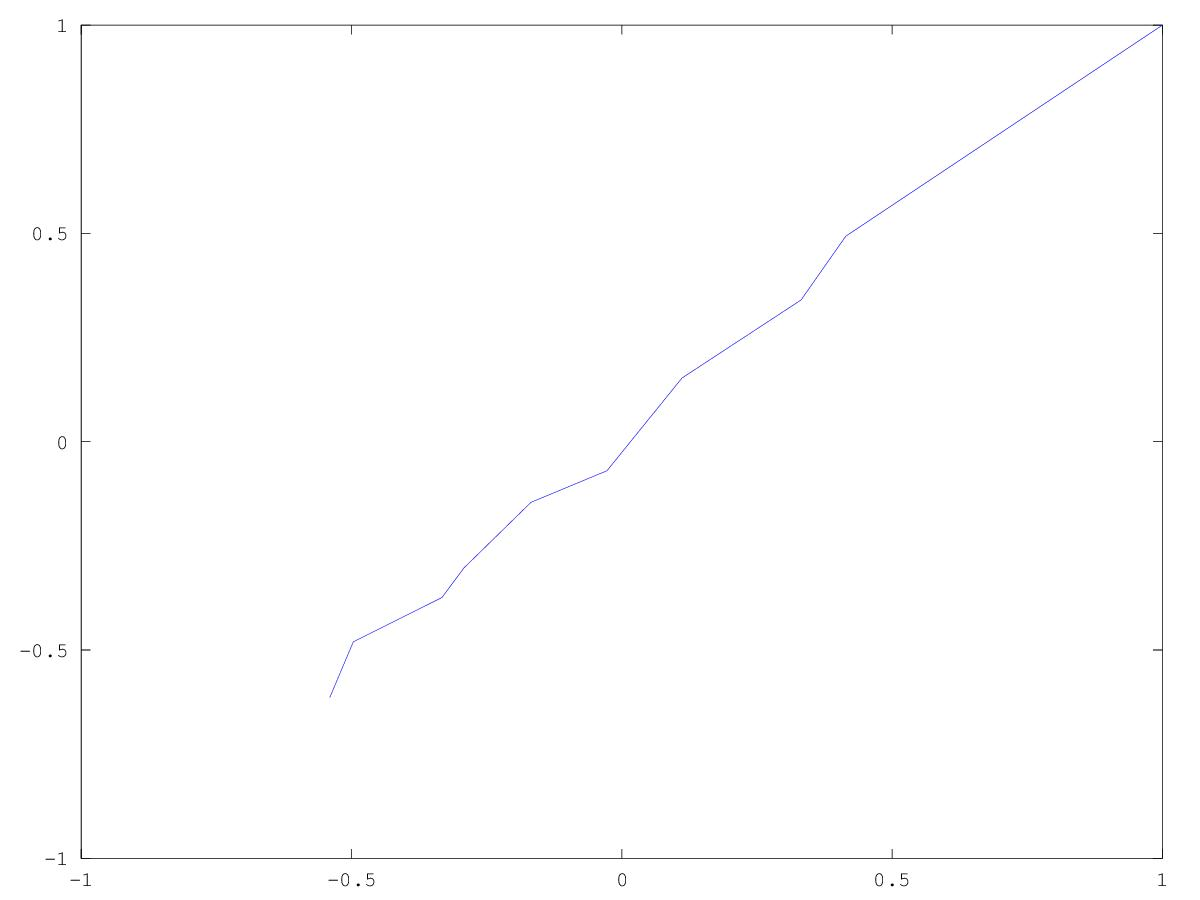
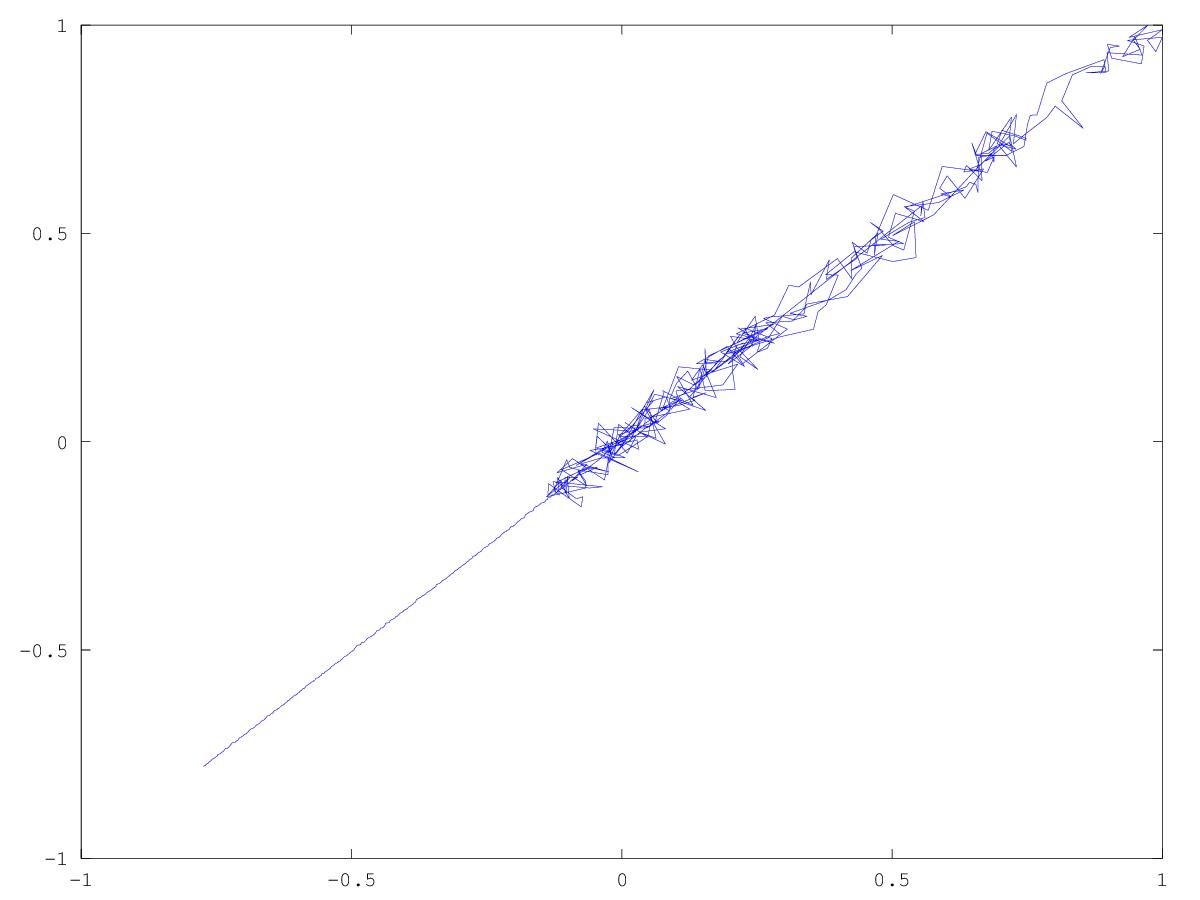
15.01.13 backup

diff --git a/SNN/KK_snn.m b/SNN/KK_snn.m
@@ -5,8 +5,9 @@ clc;
 clear;
 
 % Import danych z pliku tekstowego
-%mDane=load('A_test_14.txt');
-mDane = load('test_dane.txt');
+mDane=load('A_test_14.txt');
+%mDane = load('test_dane.txt');
+
 % Opis danych:
 % kolumna 1 - x
 % kolumna 2 - y=f(x)
@@ -14,23 +15,24 @@ plot(mDane(:,1),mDane(:,2));
 print -djpg "dane_oryginal.jpg";
 
 %Normalizacja i centrowanie
-mDane
 % to nizej to to samo co studentize :) 
 %mPrestd = prestd(mDane(:,2))
-mTmp = studentize(mDane)
-mNormX = norm(mTmp(:,1), inf)
-mNormY = norm(mTmp(:,2), inf)
+mTmp = studentize(mDane);
+mNormX = norm(mTmp(:,1), inf);
+mNormY = norm(mTmp(:,2), inf);
 % odchylanie standardowe
 %mStd = std(mDane)
 mDane(:,1) = mTmp(:,1) ./ mNormX;
 mDane(:,2) = mTmp(:,2) ./ mNormY;
-mDane
 
 %prestd(dane)
 %mDane(:,1) = mDane(:,1) - mean(mDane(:,1))
 %mDane
+
 % podzial zbioru na zbior uczacy i testowy
-[mTrain, mTest] = subset(mDane',1,1,1/2)
+[mTrain, mTest] = subset(mDane',1,1,1/2);
+mTrain = mTrain';
+mTest = mTest';
 %poststd(prestd(dane))
 %trastd(dane)
 %mapstd(dane)
@@ -41,3 +43,68 @@ mDane
 plot(mDane(:,1),mDane(:,2));
 print -djpg "dane_norm.jpg";
 %print -deps foo.eps
+
+%-----------------------------------------
+% pkt 2 - dobór liczby neuronów metodą porównania błędu śrenio-kwadratowego
+
+mHiddenNeuronMax = 30;
+mTestNumber = 30;
+
+mErrorTrain = zeros(mHiddenNeuronMax, mTestNumber);
+mErrorTest = zeros(mHiddenNeuronMax, mTestNumber);
+mErrorTrainAvr = zeros(mHiddenNeuronMax, 1);
+mErrorTestAvr = zeros(mHiddenNeuronMax, 1);
+mErrorTrainMin = zeros(mHiddenNeuronMax, 1);
+mErrorTestMin = zeros(mHiddenNeuronMax, 1);
+
+for neuronNum = 1:1:mHiddenNeuronMax
+    for testNum = 1:1:mTestNumber
+       
+        #randomizacja danych
+        permutation = randperm(length(mTrain));
+        mTrainRand = mTrain;
+        for i = 1:1:length(mTrain)
+            mTrainRand(i,:) = mTrain(permutation(i),:);
+        end
+        % czyszenie pamięci
+        mTrain = mTrainRand;	
+        clear mTrainRand;
+        
+        
+        net = newff([min(mTrain(:,1)) max(mTrain(:,1))],[neuronNum 1],{"tansig" , "purelin"} , "trainlm", "learngdm", "mse");
+        
+        rand('state',sum(100*clock)); %inicjalizacja generatora liczb pseudolosowych 
+        
+        %inicjalizacja wag sieci 
+        net.IW{1} = (rand(neuronNum, 1)-0.5)/(0.5/0.15); 
+        net.LW{2} = (rand(1, neuronNum) - 0.5) / (0.5 / 0.15); 
+        net.b{1} = (rand(neuronNum, 1) - 0.5) / (0.5 / 0.15); 
+        net.b{2} = (rand() - 0.5) / (0.5 / 0.15); 
+        net.trainParam.goal = 0.01; %warunek stopu - poziom błędu 
+        net.trainParam.epochs = 100; %maksymalna liczba epok 
+        net=train(net,mTrain(:,1)',mTrain(:,2)'); %uczenie sieci
+        
+        %symulacja sieci
+        y = sim(net,mTrain(:,1)');
+        mErrorTrain(neuronNum, testNum) = (sum((y-mTrain(:,2)').^2)./2)./length(mTrain(:,1));
+    
+        y = sim(net,mTest(:,1)');
+        mErrorTest(neuronNum, testNum) = (sum((y-mTest(:,2)').^2)./2)./length(mTest(:,1));
+
+    end
+    
+    mErrorTrainAvr(neuronNum)=mean(mErrorTrain(neuronNum,:)');
+    mErrorTestAvr(neuronNum)=mean(mErrorTest(neuronNum,:)');
+    mErrorTrainMin(neuronNum)=min(mErrorTrain(neuronNum,:)');
+    mErrorTestMin(neuronNum)=min(mErrorTest(neuronNum,:)');
+    
+end
+
+plot(mDane(:,1),mDane(:,2));
+print -djpg "dane_norm.jpg";
+
+x=linspace(1,mHiddenNeuronMax,mHiddenNeuronMax)
+plot(x,mErrorTrainAvr','o-r',x,mErrorTestAvr','o-g');
+print -djpg "sredni_MSE.jpg";
+plot(x,mErrorTrainMin','o-r',x,mErrorTestMin','o-g');
+print -djpg "min_MSE.jpg";
